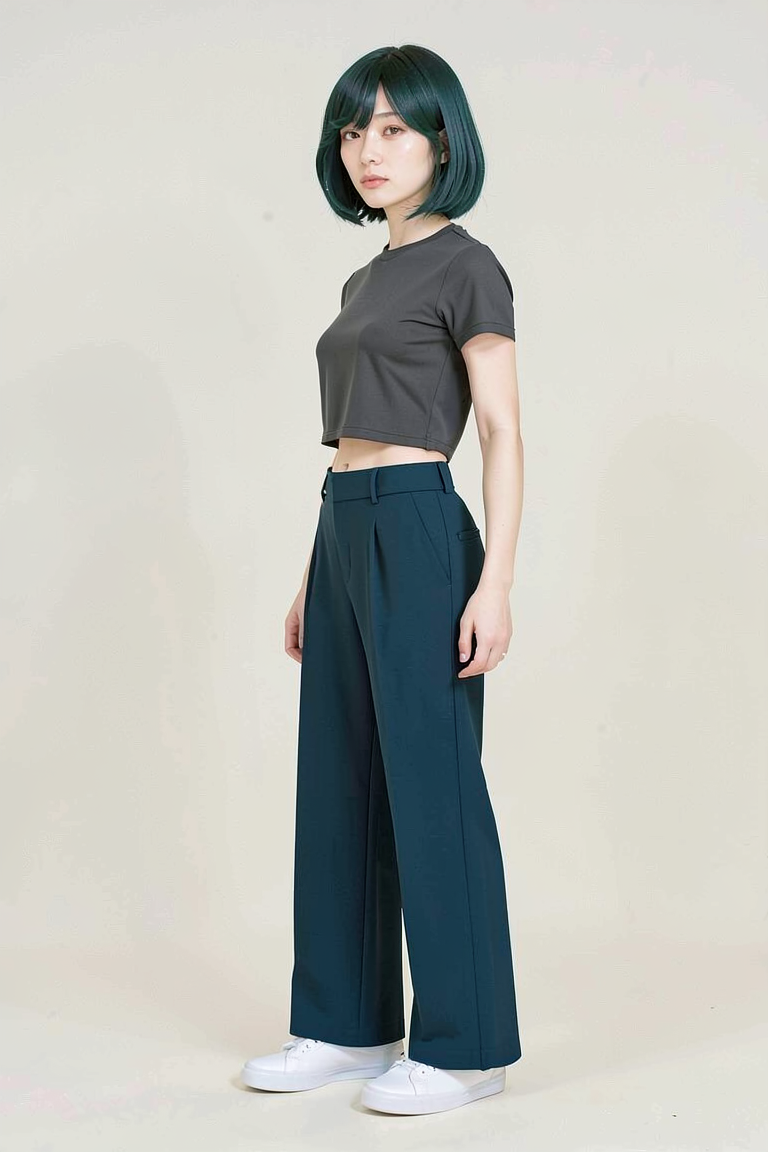
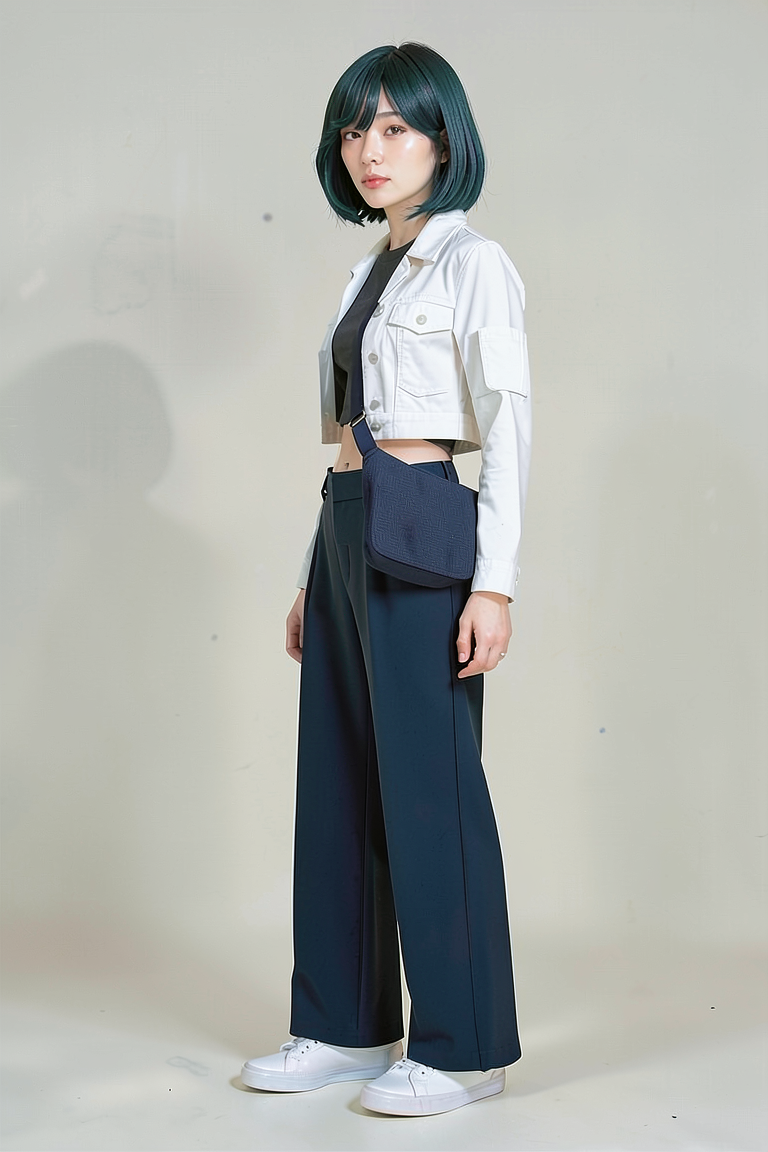
feat(part-07): 전신 보강 기준 네 방향 승인

diff --git a/docs/assets/part-07/chapter-05/p7_5_2_refine_fullbody_face_props.py b/docs/assets/part-07/chapter-05/p7_5_2_refine_fullbody_face_props.py
@@ -69,7 +69,7 @@ BAG_VIEW_RULES = {
 COMPLETE_OUTFIT_VIEW_RULES = {
     "front": "Front: retain the bag side-on beside the wearer's outer-left trouser seam, its top aligned to the waistband, and one continuous taut strap from the outer wearer's-right shoulder diagonally across the chest into the bag's upper inner attachment.",
     "front_quarter": "Front three-quarter: retain the bag at the outer wearer's-left hip, its top aligned to the waistband, below the ribs and clear of the front thigh.",
-    "profile": "Profile: retain the bag at the outer wearer's-left rearward hip, its top aligned to the waistband, with the strap behind the jacket.",
+    "profile": "Profile: render a visibly dominant white cropped utility-jacket body from collar to hem, including the side-back panel and one long cuffed sleeve. Show the charcoal-gray crop top only as a narrow inner layer at the open front. Keep the bag at the outer wearer's-left rearward hip, its top aligned to the waistband, with the strap behind the jacket.",
     "rear": "Rear: replace the upper garment with the supplied white cropped utility jacket: plain white back panel, long cuffed sleeves to the wrists, and bare-skin midriff below its hem; no gray inner top is visible. Show one continuous taut deep-navy canvas strap from the outer wearer's-right shoulder diagonally across the jacket back, exiting beyond the left waistband. At the outer left hip, show only a small deep-navy woven-fabric bag corner, mostly hidden behind the torso.",
 }
 IMAGE_WIDTH = 768
@@ -80,15 +80,30 @@ def prompt_word_count(text: str) -> int:
     return len(text.split())
 
 
-def prop_reference_path(prop_id: str, view: str) -> Path:
+def prop_reference_paths(prop_id: str, view: str) -> tuple[Path, ...]:
     if prop_id == "complete_outfit":
-        return COMPLETE_OUTFIT_REFERENCE_BY_VIEW[view]
+        if view == "profile":
+            # A side view needs both garment faces to preserve the jacket body panel.
+            return (
+                COMPLETE_OUTFIT_REFERENCE_BY_VIEW["front"],
+                COMPLETE_OUTFIT_REFERENCE_BY_VIEW["rear"],
+            )
+        return (COMPLETE_OUTFIT_REFERENCE_BY_VIEW[view],)
     if prop_id == "layered_jacket_crop_top":
-        return LAYERED_OUTFIT_REFERENCE_BY_VIEW[view]
-    return PROPS[prop_id]["path"]
+        return (LAYERED_OUTFIT_REFERENCE_BY_VIEW[view],)
+    return (PROPS[prop_id]["path"],)
 
 
 def build_outfit_prompt(view: str, prop_ids: tuple[str, ...]) -> str:
+    if view == "profile" and "complete_outfit" in prop_ids:
+        return (
+            "Refine the supplied full-body reference into the same woman in a side-profile studio image. "
+            "Preserve pose, hair-to-sole framing, dark teal trousers, and white low-top sneakers. "
+            "From the supplied front and rear outfit references, render a white cropped utility jacket as the visible "
+            "outer torso layer: jacket body from collar to cropped hem, side-back panel, and one long cuffed sleeve. "
+            "Keep the charcoal-gray crop top as a narrow inner layer at the open front. Place the deep-navy bag at the "
+            "outer left rearward hip with its strap behind the jacket. One person, complete limbs, no text or labels."
+        )
     prop_instructions = " ".join(PROPS[prop_id]["instruction"] for prop_id in prop_ids)
     if "complete_outfit" in prop_ids:
         prop_instructions = PROPS["complete_outfit"]["instruction"]
@@ -171,9 +186,10 @@ def main() -> None:
     if args.stage != "face":
         reference_paths.extend(BODY_REFERENCES[view] for view in args.views)
         reference_paths.extend(
-            prop_reference_path(prop_id, view)
+            path
             for view in args.views
             for prop_id in args.props
+            for path in prop_reference_paths(prop_id, view)
         )
     if args.intermediate is not None:
         reference_paths.append(args.intermediate)
@@ -203,7 +219,11 @@ def main() -> None:
             intermediate = ROOT / f"{stem}-outfit-stage.png"
             report = ROOT / f"{args.output_prefix}-{view}-{run_timestamp}-seed-{seed}-review.json"
             started = time.monotonic()
-            prop_paths = [prop_reference_path(prop_id, view) for prop_id in args.props]
+            prop_paths = [
+                path
+                for prop_id in args.props
+                for path in prop_reference_paths(prop_id, view)
+            ]
             if args.stage in ("all", "outfit"):
                 prop_images = [Image.open(path).convert("RGB") for path in prop_paths]
                 with Image.open(BODY_REFERENCES[view]) as body_source:

diff --git a/management/release-notes/sections/part-07/P7-5.2.md b/management/release-notes/sections/part-07/P7-5.2.md
@@ -33,6 +33,8 @@
 
 ### v2026.08.06
 
+- 통합 전신 보강으로 만든 전면 쿼터·후면·측면 PNG를 사람 승인해 안정 전신 기준으로 대체했다. 측면은 전면·후면 통합 착장 기준을 함께 참조하고, 재킷 몸판·소매·옆등판을 짧은 전용 계약으로 고정해 재킷 누락을 해소했다. 정면까지 포함한 네 방향은 자켓·가방 보강 범위가 승인됐다.
+- 원고 흐름을 얼굴 기준 → 소품 기준 → 방향 전신 → 전신 얼굴·소품 보강 순서로 재배치했다. 소품의 색·형태·착장 관계 계약을 먼저 확인한 뒤 전신 입력과 검수 범위를 읽도록 정리했다.
 - Chapter 5 생성 리포트는 저장소에서 제거하고 ignore 처리했다. 원고에는 승인 기준 이미지, 입력 목록을 정하는 manifest, 재실행 가능한 생성 코드만 연결한다.
 - 전신 턴어라운드는 시트 생성 대신 방향별 개별 PNG 생성으로 전환했다. 승인 정면 전신과 P7-5.1 화풍 참조를 제거하고, 얼굴 턴어라운드와 크롭탑·바지·신발 소품만 입력으로 둔다. 승인 PNG만 후속 조합 단계에서 검수 시트로 배열한다.
 - 측면 후보의 추정값이 약 5.95등신, 정면 후보가 약 6.50등신으로 목표 7.5등신에 미달한 것을 확인했다. 등신 수치·작은 상체·높은 골반·긴 다리 지시는 단일 생성에서 안정적인 제어가 되지 않아 전신 prompt에서 제거하고, 실제 비율은 사람 검수 항목으로만 유지한다.
